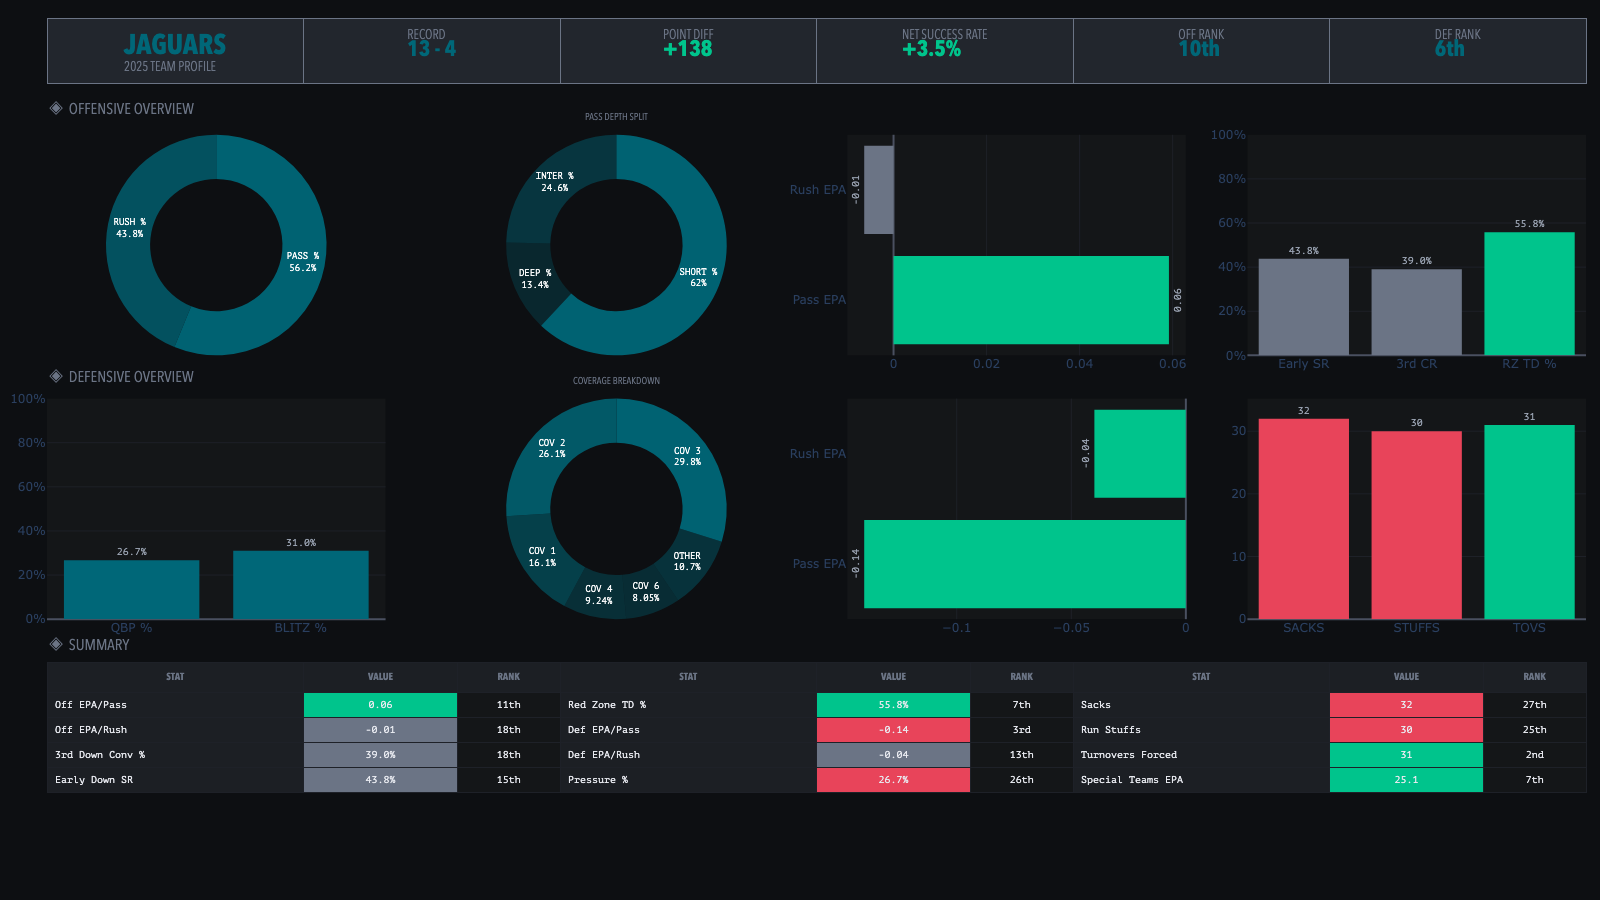
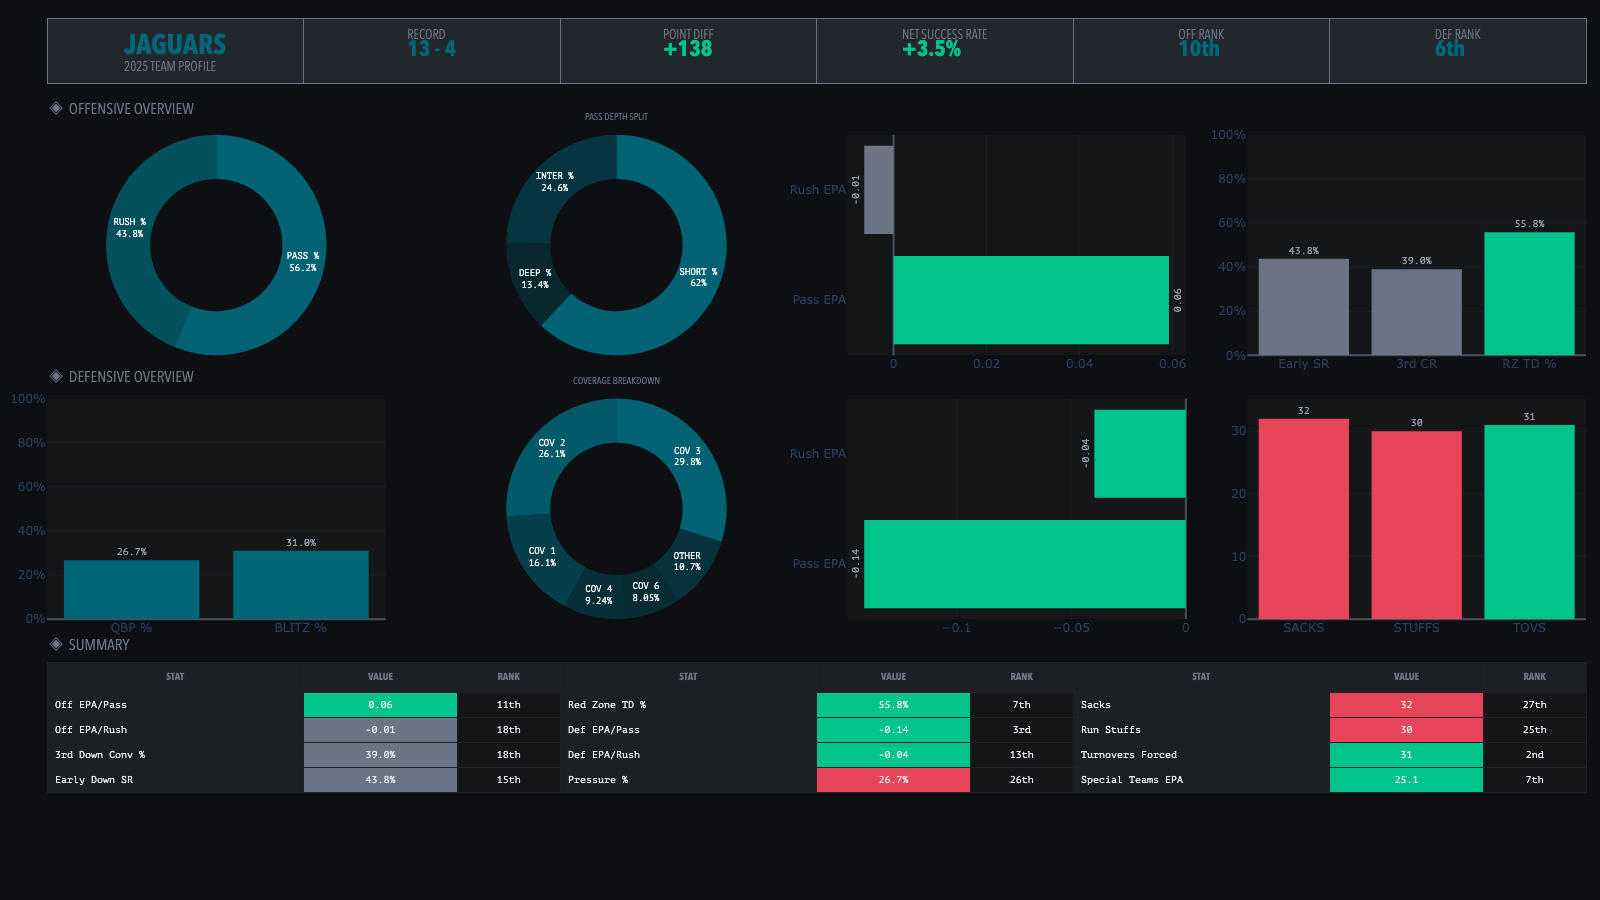
Team profile script figures fixes

Changed region(s): [[0.5, 0.7778, 0.625, 0.8711]]

diff --git a/team_profile.py b/team_profile.py
@@ -746,7 +746,7 @@ def create_team_profile(league_df, team):
     stats_pct_vals = []
     for col, asc in zip(rank_cols, ascending_for_rank):
         if col in league_df.columns:
-            if col in ["epa_per_pass_def", "epa_per_rush_def"]:
+            if col in ["epa_pass_def", "epa_rush_def"]:
                 p = get_pct(col, ascending=False)
             else:
                 p = get_pct(col)
